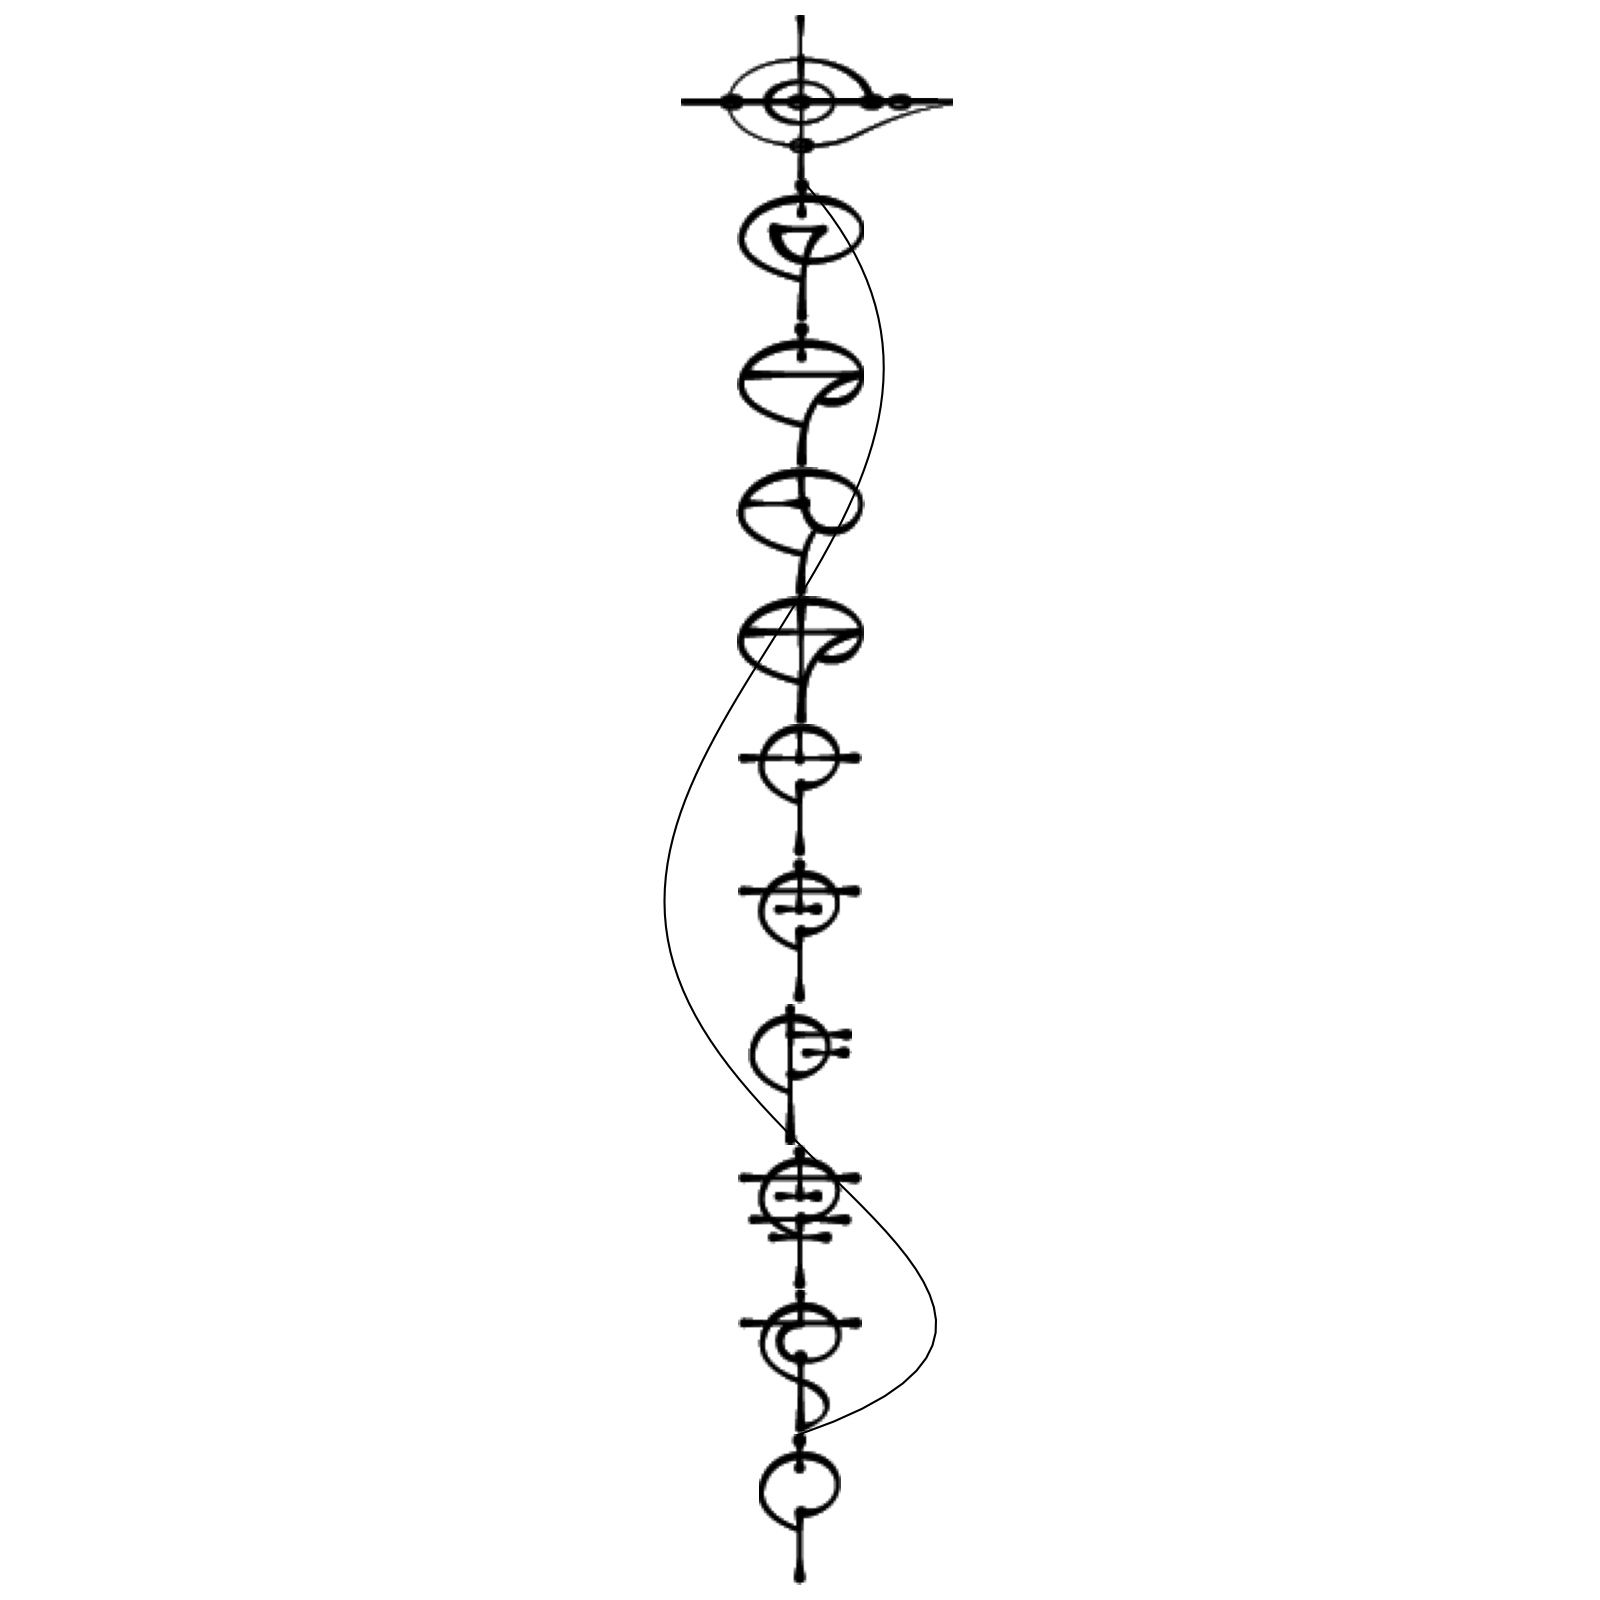
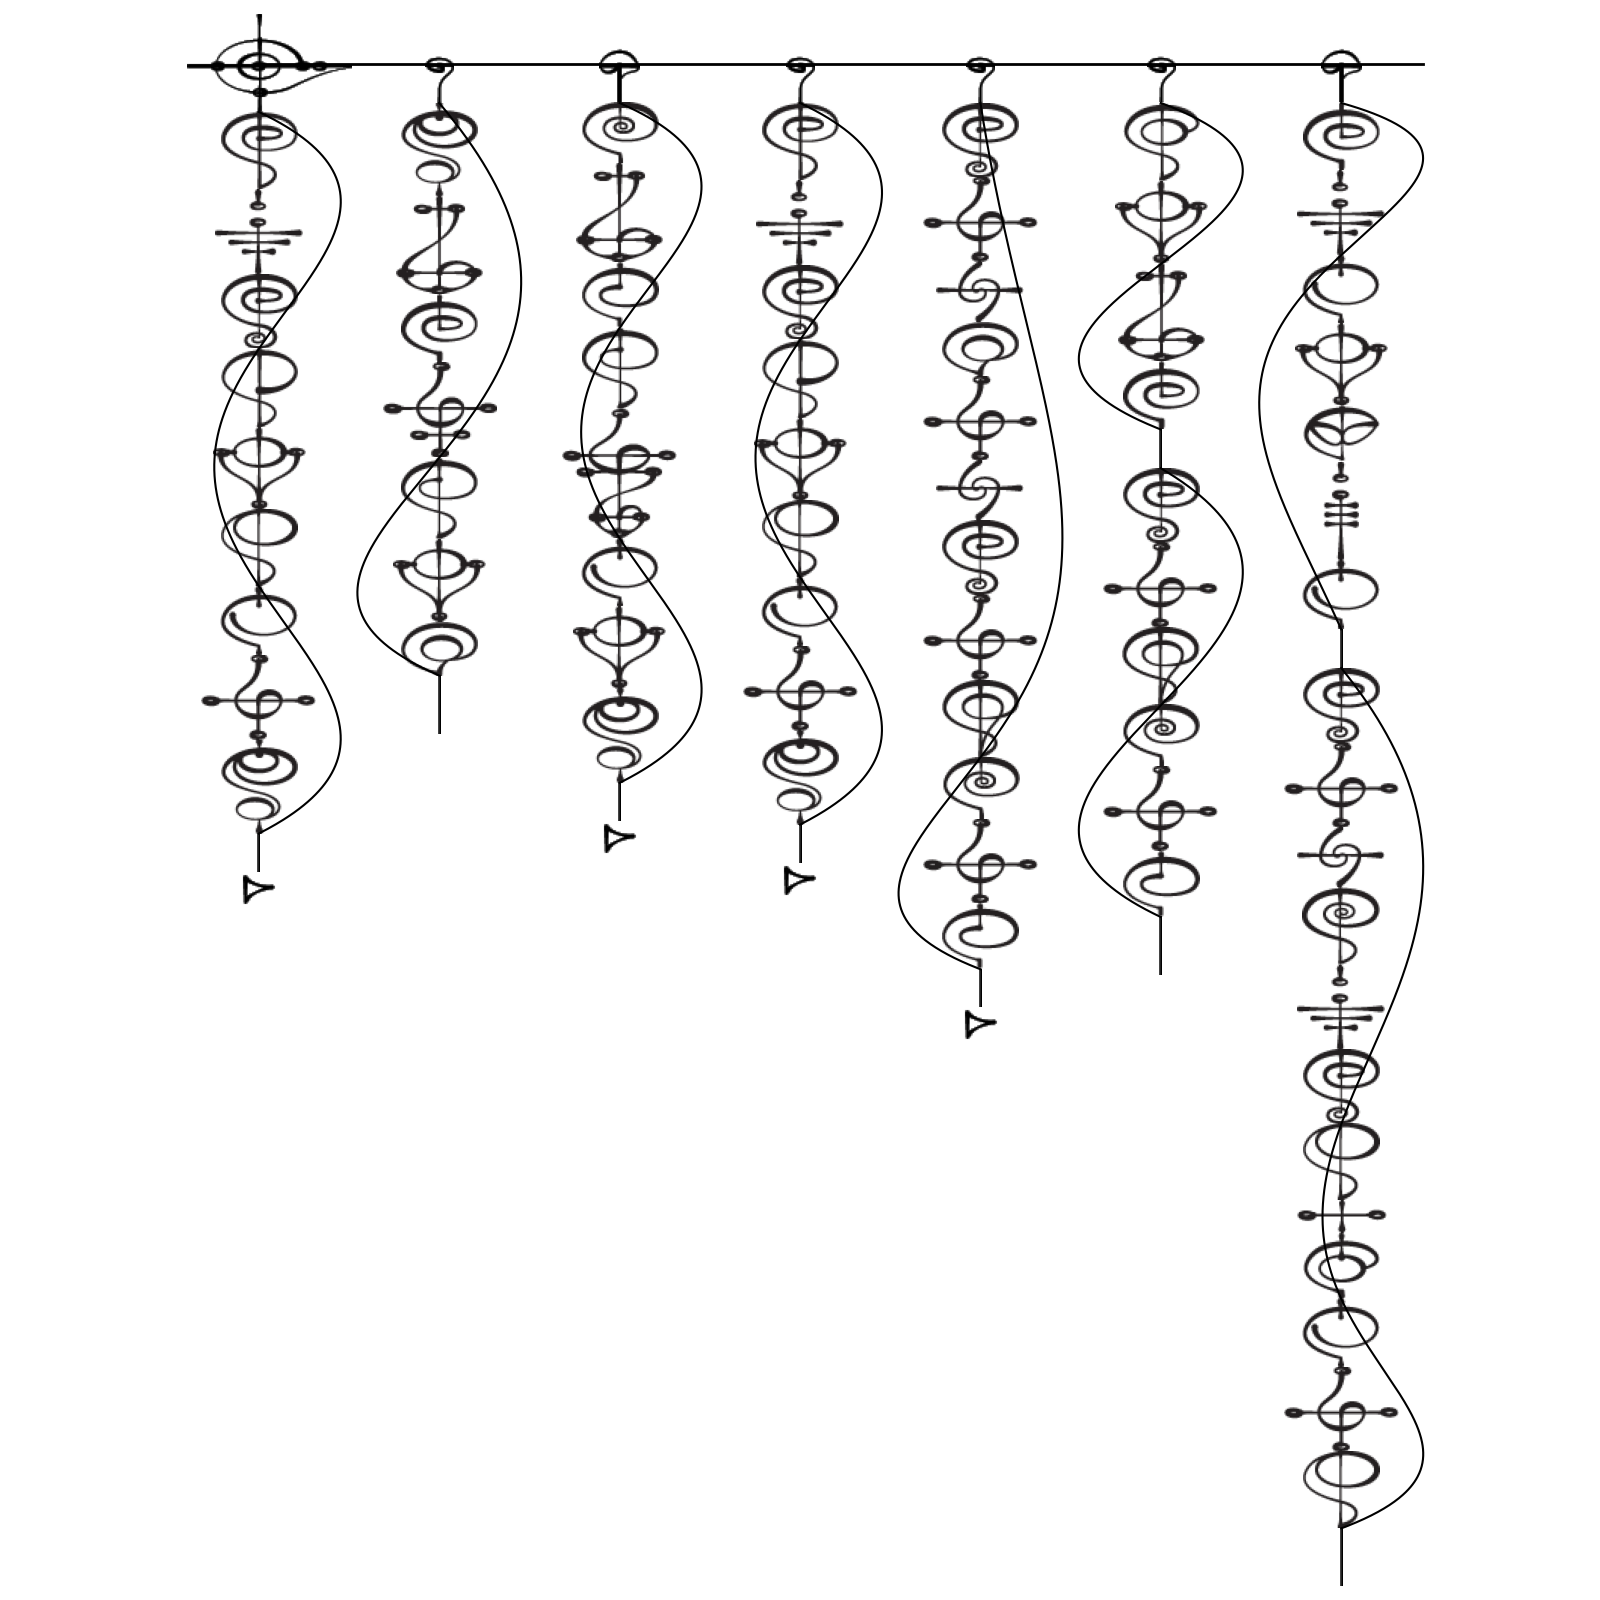
Cleaned up the script and removed unecessary goodness functions

diff --git a/Vulcan.py b/Vulcan.py
@@ -12,6 +12,9 @@ import os
 # Bar - The horizontal line from which the spines are connected
 # Start - The patam, the first symbol in the upper left corner
 
+# Fine tuning parameters
+maximal_window_height = 500
+
 def subplots(rows,columns,height_scale,override=False,sharex=False,wcs=None,custom_width_factor=1):
     """
     Sets up figures for pretty plotting with (sub)plots. For a single plot, use rows=1, columns=1.
@@ -83,81 +86,45 @@ def polynomial(x,roots,c):
     #     y = polynomial*(np.exp(-c*x))
     return y
 def abspolynomial(x,roots,c):
-    polynomial = 1
-    for i in range(len(roots)):
-        polynomial *= ((x) - roots[i])
-    y = polynomial*(np.exp(c*x))
-    # if(c<1):
-    #     y = polynomial*(1-np.exp(c*x))
-    # if(c>=1):
-    #     y = polynomial*(np.exp(-c*x))
-    return y**2
-def curve(roots):
-    # c = 0.013651365136513646/2
-    # c = -0.005976597659765971
-    # c = -0.009812981298129811
+    return np.abs(polynomial(x,roots,c))
+
+def curve(roots,ax):
     c_list = np.linspace(-0.1,0.1,10000)
-    x = np.linspace(min(bars),max(bars),100)
+    x = np.linspace(min(bars),max(bars),1000)
     roots = bars
     print(roots)
-    sum_list = []
-    sum_list1 = []
+    equivalent_width = []
     for i in range(len(c_list)):
-        sum = quad(polynomial,min(roots),max(roots),args=(roots,c_list[i]))[0]
-        sum1 = quad(abspolynomial,min(roots),max(roots),args=(roots,c_list[i]))[0]
-        sum_list.append(sum/max(polynomial(x,roots,c_list[i])))
-        sum_list1.append(sum1/max(abspolynomial(x,roots,c_list[i])))
-    # fig,axs = subplots(1,1,1)
-    # axs[0].plot(x,polynomial(x,roots,c=0))
-    # axs[0].plot(x,polynomial(x,roots,c=0.1))
-    # plt.show()
-    sum_list = np.array(sum_list)
-    sum_list1 = np.array(sum_list1)
-    s1 = sum_list/max(abs(sum_list))
-    s2 = sum_list1/max(abs(sum_list1))
-    s3 = 1/sum_list*1/sum_list1/max(abs(1/sum_list*1/sum_list1))
-    s4 = (sum_list+sum_list1)/max(abs(sum_list+sum_list1))
-    gradient = np.gradient(s2,c_list[1]-c_list[0])
-    ddxx = np.gradient(gradient,c_list[1]-c_list[0])
-    # print(sum_list/max(abs(sum_list)))
-    # superfunction = 1/sum_list*sum_list1/max(abs(1/sum_list*sum_list1))
-    c1 = c_list[np.argmin(s1)]
-    c2 = c_list[np.argmax(s2)]
-    c3 = c_list[np.argmin(s3)]
-    c4 = c_list[np.argmax(s4)]
-    c5 = c_list[np.argmin(gradient)]
-    # print(c1)
-    print(c2)
-    print(c5)
-    # print(c3)
-    # print(c4)
-    # plt.show()
-    # plt.plot(c_list,s1,label="1")
-    # # plt.vlines(x=c1,ymin=-1,ymax=1,linestyles="--")
-    # plt.plot(c_list,s2,label="2")
-    # plt.vlines(x=c2,ymin=-1,ymax=1,linestyles="--")
-    # plt.plot(c_list,gradient/max(abs(gradient)))
-    # plt.plot(c_list,s3,label="3")
-    # plt.vlines(x=c3,ymin=-1,ymax=1,linestyles="--")
-    # plt.plot(c_list,s4,label="4")
-    # plt.vlines(x=c4,ymin=-1,ymax=1,linestyles="--")
-    # plt.legend()
-    # plt.show()
-    # plt.plot(c_list,s2,label="2")
-    # plt.plot(c_list,gradient/max(abs(gradient)))
-    # plt.plot(c_list,ddxx/max(abs(ddxx)))
-    # plt.vlines(x=0,ymax=1,ymin=0,linestyles="--")
-    # plt.show()
-    c = c5
-    # c = c2
-    # c = 0.0228
+        integrated_area = quad(abspolynomial,min(roots),max(roots),args=(roots,c_list[i]))[0]
+        equivalent_width.append(integrated_area/max((abspolynomial(x,roots,c_list[i]))))
+    
+    c = c_list[np.argmax(equivalent_width)]
+    print("Optimal parameter c:",c)
+    # gradient = np.gradient(equivalent_width,c_list[1]-c_list[0])
+    # c5 = c_list[np.argmin(gradient)]
+
+    # Plotting the optimization and the comparrison between the swirls
+    fig_optimize,axs = subplots(2,1,1,override=True)
+    axs[0].plot(c_list,equivalent_width,color="blue",label="Equivalent width function")
+    axs[0].vlines(x=c,ymin=np.min(equivalent_width),ymax=np.max(equivalent_width),color="black",linestyle="--",label=r"Optimal $c$")
+    axs[0].set_xlabel(r"$c$ parameter")
+    axs[0].set_ylabel("Equivalent width")
+    axs[1].plot(x,x*0,color="black")
+    y_original = polynomial(x,roots,c=0)/np.max(abspolynomial(x,roots,c=0))*(-1)**(len(roots)+1)
+    y_optimized = polynomial(x,roots,c=c)/np.max(abspolynomial(x,roots,c=c))*(-1)**(len(roots)+1)
+    axs[1].plot(x,y_original,color="red",label="Original swirls")
+    axs[1].plot(x,y_optimized,color="black",label="Optimized swirls")
+    # c_new = -0.004
+    # axs[1].plot(x,polynomial(x,roots,c=c_new)/np.max(abspolynomial(x,roots,c=c_new))*(-1)**(len(roots)+1),color="orange",label="Optimized swirls")
+    # axs[0].vlines(x=c_new,ymin=np.min(equivalent_width),ymax=np.max(equivalent_width),color="black",linestyle="--",label=r"Optimal $c$")
+    axs[1].set_xlabel("Vertical coordinate")
+    axs[1].set_ylabel("Horizontal coordinate")
+    fig_optimize.legend()
+    fig_optimize.savefig("Optimizer.png")
     y = polynomial(x,roots,c)
-    # print(sum/max(polynomial(x,roots,c)))
-    # print(sum1/max(abspolynomial(x,roots,c)),(max(roots)-min(roots))/2)
-    # print(sum1/sum)
 
     y = y/max(abs(y))*(-1)**(len(roots)+1)
-    plt.plot(y*width/2+line,x,c="black",linewidth=1.5)
+    ax.plot(y*width/2+line,x,c="black",linewidth=1.5)
 def separate_string_into_clumps(string):
     """
     Splitting the provided Romanized string into clumps corresponding to valid numh.
@@ -166,7 +133,7 @@ def separate_string_into_clumps(string):
         string (string): Romanized string.
     
     Returns:
-        result (list,string): List of the separated numh.
+        nuhms (list,string): List of the separated numh.
     """
     # Sort the list of letters by length in descending order
     letters = os.listdir("alphabet")
@@ -175,61 +142,57 @@ def separate_string_into_clumps(string):
     sorted_letters = sorted(letters, key=len, reverse=True)
 
     # Initialize the result list to store the clumps of letters
-    result = []
-
-    # Initialize the index to start at the beginning of the string
+    nuhms = []
     i = 0
-
     while i < len(string):
         # Try to match the longest possible letter clump
         matched = False
         for letter in sorted_letters:
             # If the substring matches the letter clump
             if string[i:i+len(letter)] == letter:
-                result.append(letter)
+                nuhms.append(letter)
                 i += len(letter)
                 matched = True
                 break
         if not matched:
             # If no clump is matched, add the single character
             print(string[i])
-            result.append(string[i])
+            nuhms.append(string[i])
             i += 1
+    return nuhms
 
-    return result
-def image(imagename):
+def image(imagename,ax):
     '''
     The function displays the numh corresponding to the romanized text clump.
     '''
     img = mpimg.imread("alphabet//"+imagename)
-    a,b,__ = np.shape(img)
-    print(imagename,a,b)
-    delta = 0
+    numh_height,nuhm_width,__ = np.shape(img)
+
+    horizontal_offset = 0
     if(imagename=="start.png"):
-        delta = 7
+        horizontal_offset = 7
     global width
     global height
     global max_height
-    if(b>width):
-        width=b
-    plt.imshow(img,extent=[-b/2+delta+line,b/2+delta+line,height+a,height])
-    height += a
+    if(nuhm_width > width):
+        width = nuhm_width
+    ax.imshow(img,extent=[-nuhm_width/2+horizontal_offset+line,nuhm_width/2+horizontal_offset+line,height+numh_height,height])
+    height += numh_height
     if(max_height<height):
         max_height = height
-    # plt.plot([0,0],[y+a,y+a+2],color="black",linewidth=3)
-    # plt.plot([0,0],[y,y+2],color="black",linewidth=3)
 
-fig, ax = plt.subplots(1, 1, figsize=(16, 16))
-ax.set_axis_off()
+main_fig, main_axs = plt.subplots(1, 1, figsize=(16, 16))
+main_axs = [main_axs]
+# main_fig, main_axs = subplots(1,1,4,override=True)
+main_axs[0].set_axis_off()
 
-# print(letters)
 
 string = "Stal Stonn le-matya k'stonn ik tal-tor svi'mazhiv po'ta zeshal aushfa mal-nef-hinek t'sa-veh. Ish-wak svi-aru."
-string = "Nam-tor Olozhika kluterek t'sha'sutenivaya k'ish she-tor etek s'nezhak isan utvau vah sha'kakhartayek."
-string = "Rok-tor etek ta sanoi nash uzh-rarav ik ki'fereik-tor nameT'Prion. Dungi olau ish-veh kunli pa'ta paribau k'kanok-veh svi'Shi'svatorai."
+# string = "Nam-tor Olozhika kluterek t'sha'sutenivaya k'ish she-tor etek s'nezhak isan utvau vah sha'kakhartayek."
+# string = "Rok-tor etek ta sanoi nash uzh-rarav ik ki'fereik-tor nameT'Prion. Dungi olau ish-veh kunli pa'ta paribau k'kanok-veh svi'Shi'svatorai."
 # string = "os-pid-vuhlkansu"
 # string = "na'Gen-lis-tal"
-# string = "tor-tor-ki'fereik-tor"
+string = "ahtortorki'fer eik-toraan-aish-ano-de"
 # string = "Kol-ut-shan"
 # string = "Ragtaya na'Gen-lis-tal Vuhlkansu eh Gen-lislar os-pid-vuhlkansu ba-golik heh iyi-golik"
 # string = "dif-tor heh smusma"
@@ -237,7 +200,7 @@ string = "Rok-tor etek ta sanoi nash uzh-rarav ik ki'fereik-tor nameT'Prion. Dun
 # string = "Wa'itaren na'kanok-veh ik ki'shetal rivlidalsu na'nisan t'Zun. Ki'pusatal fe-toyeht uzhaya ik. 7 na'du. Kuv wiri ki'lasha sanu ro'fah'voh fna'raf-ar'kada-sakat na' skladan na' korsaya sfek org."
 # string = "rules-of-Mau"
 # string = "Nam-tor nash-veh nameniklahs"
-# string = "ven-dol-tar rufai-bosh. kup-bau-tor ven-dol-tar na'sha'nazh-kap zo-uf nazh-kap. fe-toyeht na'Gen-lis-tal"
+string = "ven-dol-tar rufai-bosh. kup-bau-tor ven-dol-tar na'sha'nazh-kap zo-uf nazh-kap. fe-toyeht na'Gen-lis-tal"
 # string = " Nam-tor nen t'tanaf-kitaun t'nash-veh fupa s'vi'le-eshan t'toyeht-irak-dvubikuvan heh tsuri-dvuperuv. Nam-tor nash-kilko tsurkanik fupa s'deshker t'du ha."
 # string = "svi'nash-shi."
 # string = "ketilik pitoh-su'us-ek'tal"
@@ -245,69 +208,78 @@ string = "Rok-tor etek ta sanoi nash uzh-rarav ik ki'fereik-tor nameT'Prion. Dun
 # string = "ro-kasaya"
 # string = "Nash-vel ra. Sular vi. Fai-tor du n'au ha. Katravahsular t'du ha."
 # string = "Ki'nam-tor nash-veh heh kwon-sum dungau nam-tor t'hai'la t'du."
-string = "123-4567-890"
 # translate = "Stonn killed the le-matya with an antler that he found in the sand after the animal bit his kneecap. It was mid-afternoon."
 # translate = "Logic is the cement of our civilization with which we ascen from chaos, using reason as our guide."
 # plt.title("\""+string+"\"\n I have and always shall be your friend.")
 # plt.title("\""+string+"\"\n "+translate)
 
+
+if(string[-1] != "."):
+    string += "."
 clumps = separate_string_into_clumps(string.lower())
 print(clumps)
 
 width = 0
 height = -34 # Required for the patam. Approximately half of the height of the numh.
 max_height = height
-bars = 0
-bars = [0]
+
 line = 0
-image("start.png")
+image("start.png",main_axs[0])
 height_history = [height]
 bars = [height]
 for i in range(len(clumps)):
-    if((i == len(clumps)-1 or clumps[i] == "newline2") and len(bars)>1):
-        bars.append(height)
-        curve(bars)
-        bars = [height]
+    # if(i == len(clumps)-1 and len(bars)>1):
+    #     bars.append(height)
+    #     curve(bars,main_axs[0])
+    #     bars = [height]
     if(clumps[i]=="."):
         if(len(bars)>1):
             bars.append(height)
-            curve(bars)
-        image(" .png")
-        image(" .png")
-        image(" .png")
+            curve(bars,main_axs[0])
+        image(" .png",main_axs[0])
+        image(" .png",main_axs[0])
+        image(" .png",main_axs[0])
         if(i!=len(clumps)-1):
             line += width*1.1
             height = -34
-            image("newline.png")
+            image("newline3.png",main_axs[0])
             bars = [height]
+    
+    # If the space between two words in the middle of a sentence, add some spacing and reset bars.
     if(clumps[i]==" " and clumps[i-1]!="."):
         if(len(bars)>1):
             bars.append(height)
-            curve(bars)
-        image(clumps[i]+".png")
-        image(clumps[i]+".png")
+            curve(bars,main_axs[0])
+        image(clumps[i]+".png",main_axs[0])
+        image(clumps[i]+".png",main_axs[0])
         # image(clumps[i]+".png")
         bars = [height]
+    
+    # If there are bars, do not add a nuhm, just prepare for the swirls.
     if(clumps[i]=="-"):
         bars.append(height)
-    if(clumps[i]!="-" and clumps[i]!="."):
-        image(clumps[i]+".png")
-    if(clumps[i] == "newline2"):
+    
+    # If normal nuhms, just add them.
+    if(clumps[i]!="-" and clumps[i]!="." and clumps[i]!=" "):
+        image(clumps[i]+".png",main_axs[0])
+    # if(clumps[i] == "newline2"):
+    #     line += width*1.1
+    #     height = -34
+    #     image("newline.png")
+
+    # If the line exceeds the specified height limit, insert a line-break and continue on new line.
+    if(height > maximal_window_height and clumps[i]==" "):
+        image("newline2.png",main_axs[0])
         line += width*1.1
         height = -34
-        image("newline.png")
-    if(height>500 and clumps[i]==" "):
-        image("newline2.png")
-        line += width*1.1
-        height = -34
-        image("newline.png")
+        image("newline.png",main_axs[0])
         bars=[height]
     height_history.append(height)
-plt.plot([0,width/2+line],[0,0],color="black",linewidth=2.0)
-plt.xlim(-width,width+line)
-plt.ylim(max_height,-34)
-plt.tight_layout()
-plt.savefig("Generated text.png")
+main_axs[0].plot([0,width/2+line],[0,0],color="black",linewidth=2.0)
+main_axs[0].set_xlim(-width,width+line)
+main_axs[0].set_ylim(max_height,-34)
+main_fig.tight_layout()
+main_fig.savefig("Generated text.png")
 # plt.show()
 
 import subprocess